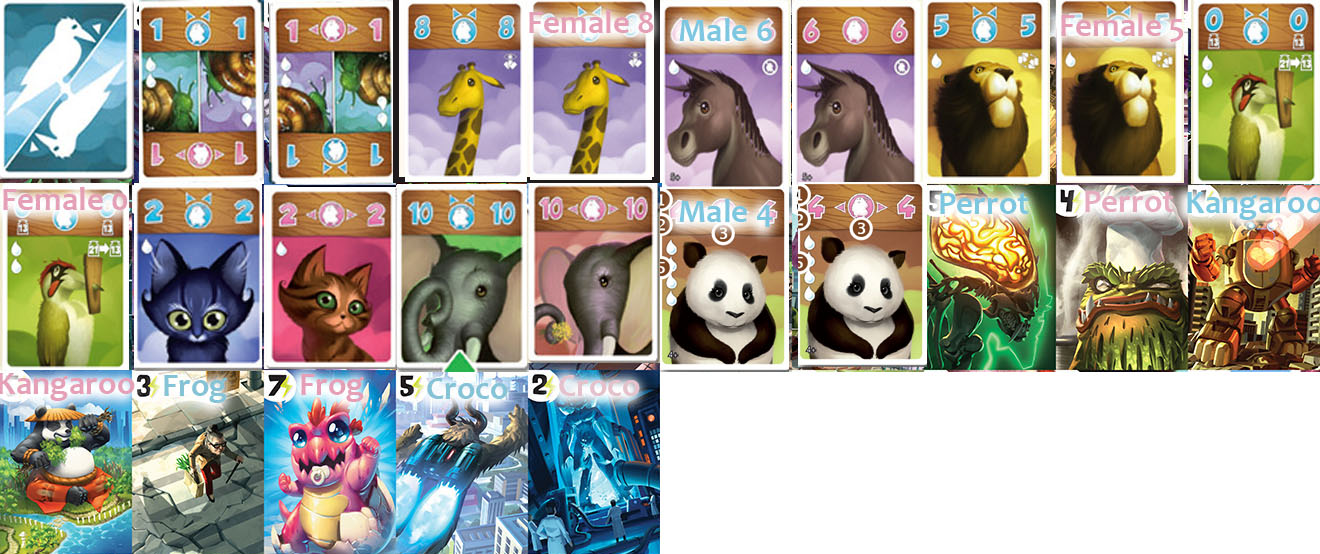
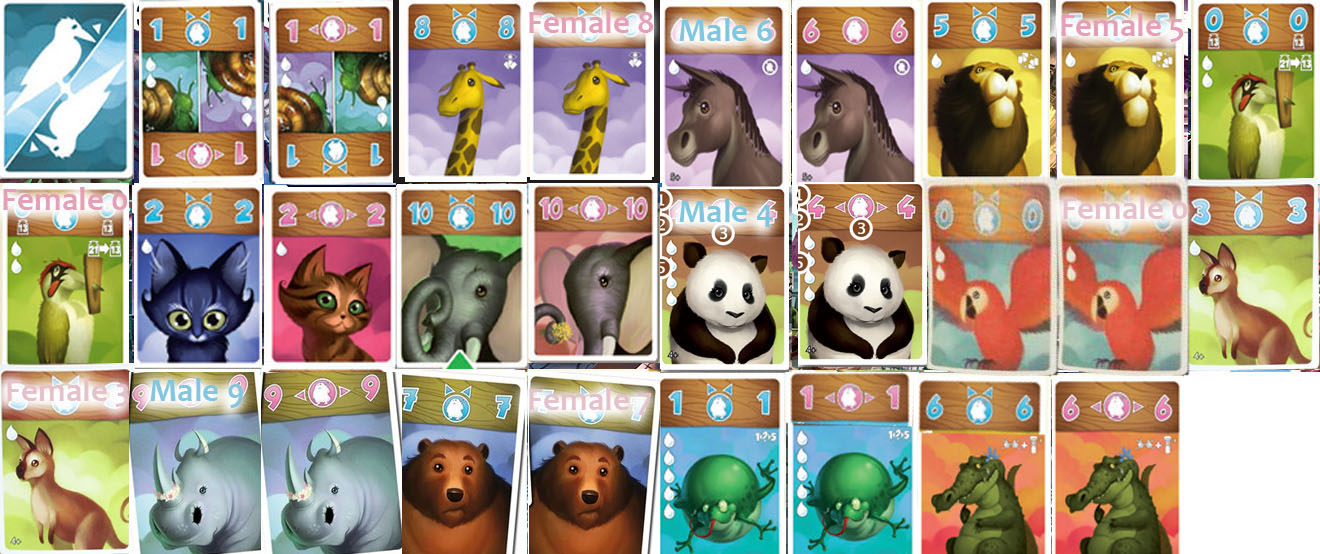
add played card to table

diff --git a/noah.js b/noah.js
@@ -36,10 +36,10 @@ declare const g_gamethemeurl;
 
 declare const board: HTMLDivElement;*/
 var ANIMALS_TYPES = [
-    1, 2, 3, 4, 5, 6, 7, 8, 9, 10, 20, 21
+    1, 2, 3, 4, 5, 6, 7, 8, 9, 10, 11, 12, 20, 21
 ];
 var ANIMALS_WITH_TRAITS = [
-    1, 2, 3, 4, 5
+    1, 2, 3, 4, 5, 20, 21
 ];
 var ANIMAL_WIDTH = 132;
 var ANIMAL_HEIGHT = 185;
@@ -90,6 +90,11 @@ var FerrySpot = /** @class */ (function () {
         var xBackgroundPercent = (imagePosition - (row * image_items_per_row)) * 100;
         var yBackgroundPercent = row * 100;
         return "-" + xBackgroundPercent + "% -" + yBackgroundPercent + "%";
+    };
+    FerrySpot.prototype.addAnimal = function (animal) {
+        var html = "<div id=\"ferry-spot-" + this.position + "-animal" + this.animals.length + "\" class=\"animal-card\" style=\"top : " + (100 + this.animals.length * 30) + "px; background-position: " + this.getBackgroundPosition(animal) + "\"></div>";
+        this.animals.push(animal);
+        dojo.place(html, "ferry-spot-" + this.position);
     };
     return FerrySpot;
 }());
@@ -186,6 +191,9 @@ var Table = /** @class */ (function () {
         board.style.marginBottom = bottomMargin + "px";
         board.style.marginLeft = sideMargin + "px";
         board.style.marginRight = sideMargin + "px";
+    };
+    Table.prototype.addAnimal = function (animal) {
+        this.spots[this.noahPosition].addAnimal(animal);
     };
     return Table;
 }());
@@ -533,7 +541,8 @@ var Noah = /** @class */ (function () {
         this.table.setPoints(notif.args.playerId, notif.args.points);
     };
     Noah.prototype.notif_animalLoaded = function (notif) {
-        // TODO
+        this.playerHand.removeFromStockById('' + notif.args.animal.id);
+        this.table.addAnimal(notif.args.animal);
     };
     Noah.prototype.notif_noahMoved = function (notif) {
         this.table.noahMoved(notif.args.position);

diff --git a/src/table/ferry/ferry.ts b/src/table/ferry/ferry.ts
@@ -33,4 +33,12 @@ class FerrySpot {
         const yBackgroundPercent = row * 100;
         return `-${xBackgroundPercent}% -${yBackgroundPercent}%`;
     }
+
+    public addAnimal(animal: Animal) {
+        const html = `<div id="ferry-spot-${this.position}-animal${this.animals.length}" class="animal-card" style="top : ${100 + this.animals.length * 30}px; background-position: ${this.getBackgroundPosition(animal)}"></div>`;
+
+        this.animals.push(animal);
+
+        dojo.place(html, `ferry-spot-${this.position}`);
+    }
 }

diff --git a/noah.css b/noah.css
@@ -30,8 +30,8 @@
   position: absolute;
   left: 20px;
   top: -100px;
-  width: 150px;
-  height: 150px;
+  width: 120px;
+  height: 120px;
   border-radius: 50%;
   pointer-events: none;
   z-index: 4;
@@ -65,9 +65,12 @@
 #table #center-board #noah {
   position: absolute;
   background: url("img/noah.png");
-  width: 150px;
+  background-position: 50% 50%;
+  width: 120px;
   height: 120px;
   z-index: 5;
+  box-shadow: 0 0 5px 5px white;
+  border-radius: 50%;
 }
 #table #center-board .point-marker {
   position: absolute;

diff --git a/src/table/_table.scss b/src/table/_table.scss
@@ -11,13 +11,15 @@
     height: 466px;
     background: url('img/board.png');
 
-    #noah {    
+    #noah {
       position: absolute;
       background: url('img/noah.png');
-      width: 150px;
+      background-position: 50% 50%;
+      width: 120px;
       height: 120px;
-
       z-index: 5;
+      box-shadow: 0 0 5px 5px white;
+      border-radius: 50%;
     }
 
     .point-marker {

diff --git a/src/noah.ts b/src/noah.ts
@@ -420,7 +420,8 @@ class Noah implements NoahGame {
     }
 
     notif_animalLoaded(notif: Notif<NotifAnimalLoadedArgs>) {        
-        // TODO
+        this.playerHand.removeFromStockById(''+notif.args.animal.id);
+        this.table.addAnimal(notif.args.animal);
     }
 
     notif_noahMoved(notif: Notif<NotifNoahMovedArgs>) {

diff --git a/src/stock-utils.ts b/src/stock-utils.ts
@@ -8,10 +8,10 @@ declare const g_gamethemeurl;
 declare const board: HTMLDivElement;*/
 
 const ANIMALS_TYPES = [
-    1,2,3,4,5,6,7,8,9,10, 20,21
+    1,2,3,4,5,6,7,8,9,10,11,12, 20,21
 ];
 const ANIMALS_WITH_TRAITS = [
-    1,2,3,4,5
+    1,2,3,4,5, 20,21
 ];
 
 const ANIMAL_WIDTH = 132;

diff --git a/src/table/table.ts b/src/table/table.ts
@@ -117,4 +117,8 @@ class Table {
         board.style.marginLeft = `${sideMargin}px`;
         board.style.marginRight = `${sideMargin}px`;        
     }
+
+    public addAnimal(animal: Animal) {
+        this.spots[this.noahPosition].addAnimal(animal);
+    }
 }

diff --git a/src/table/ferry/_ferry.scss b/src/table/ferry/_ferry.scss
@@ -17,8 +17,8 @@
       position: absolute;
       left: 20px;
       top: -100px;
-      width: 150px;
-      height: 150px;
+      width: 120px;
+      height: 120px;
       border-radius: 50%;
       pointer-events: none;
       z-index: 4;

diff --git a/material.inc.php b/material.inc.php
@@ -32,6 +32,8 @@ $this->ANIMALS = [ // (int $cardsByGender, int $weight, int $points, int $power 
     8 => new AnimalCard([2 => 8, 3 => 8, 4 => 8, 5 => 8] /* TOCHECK*/, 4, 4), // Panda
     9 => new AnimalCard([2 => 8, 3 => 8, 4 => 8, 5 => 8] /* TOCHECK*/, 0, 2), // Perrot
     10 => new AnimalCard([2 => 8, 3 => 8, 4 => 8, 5 => 8] /* TOCHECK*/, 3, 1), // Kangaroo
+    11 => new AnimalCard([2 => 8, 3 => 8, 4 => 8, 5 => 8] /* TOCHECK*/, 9, 0), // Rhinoceros
+    12 => new AnimalCard([2 => 8, 3 => 8, 4 => 8, 5 => 8] /* TOCHECK*/, 7, 0), // Bear
     // TODO check if other animals
 
     // Bonus cards
